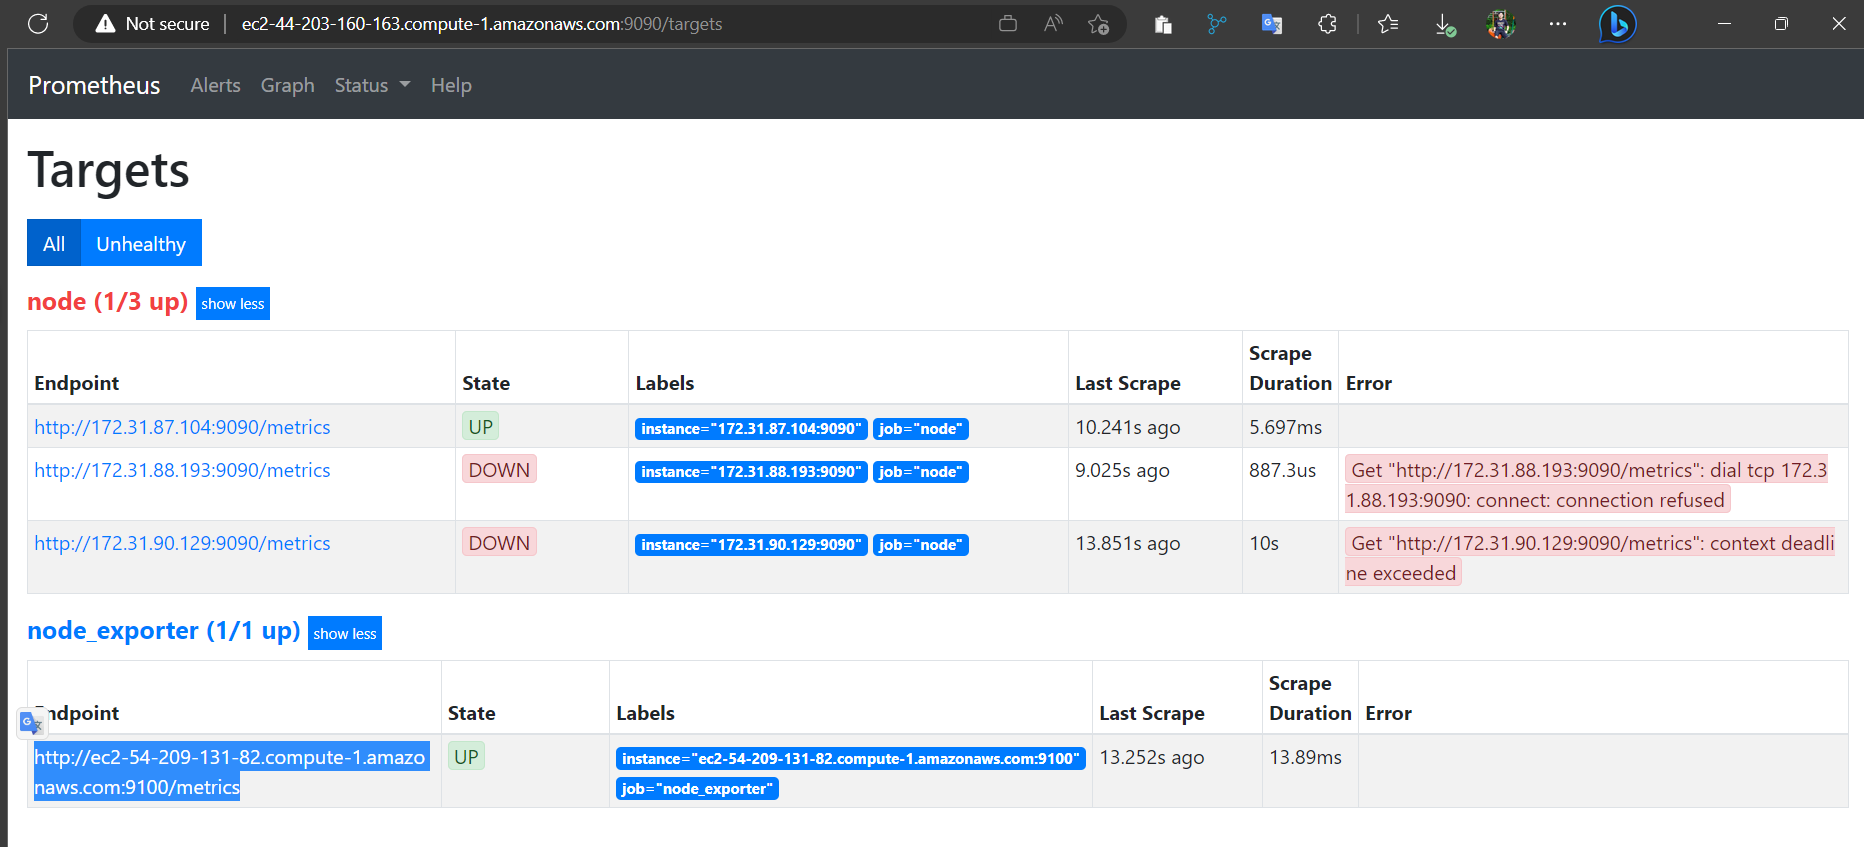
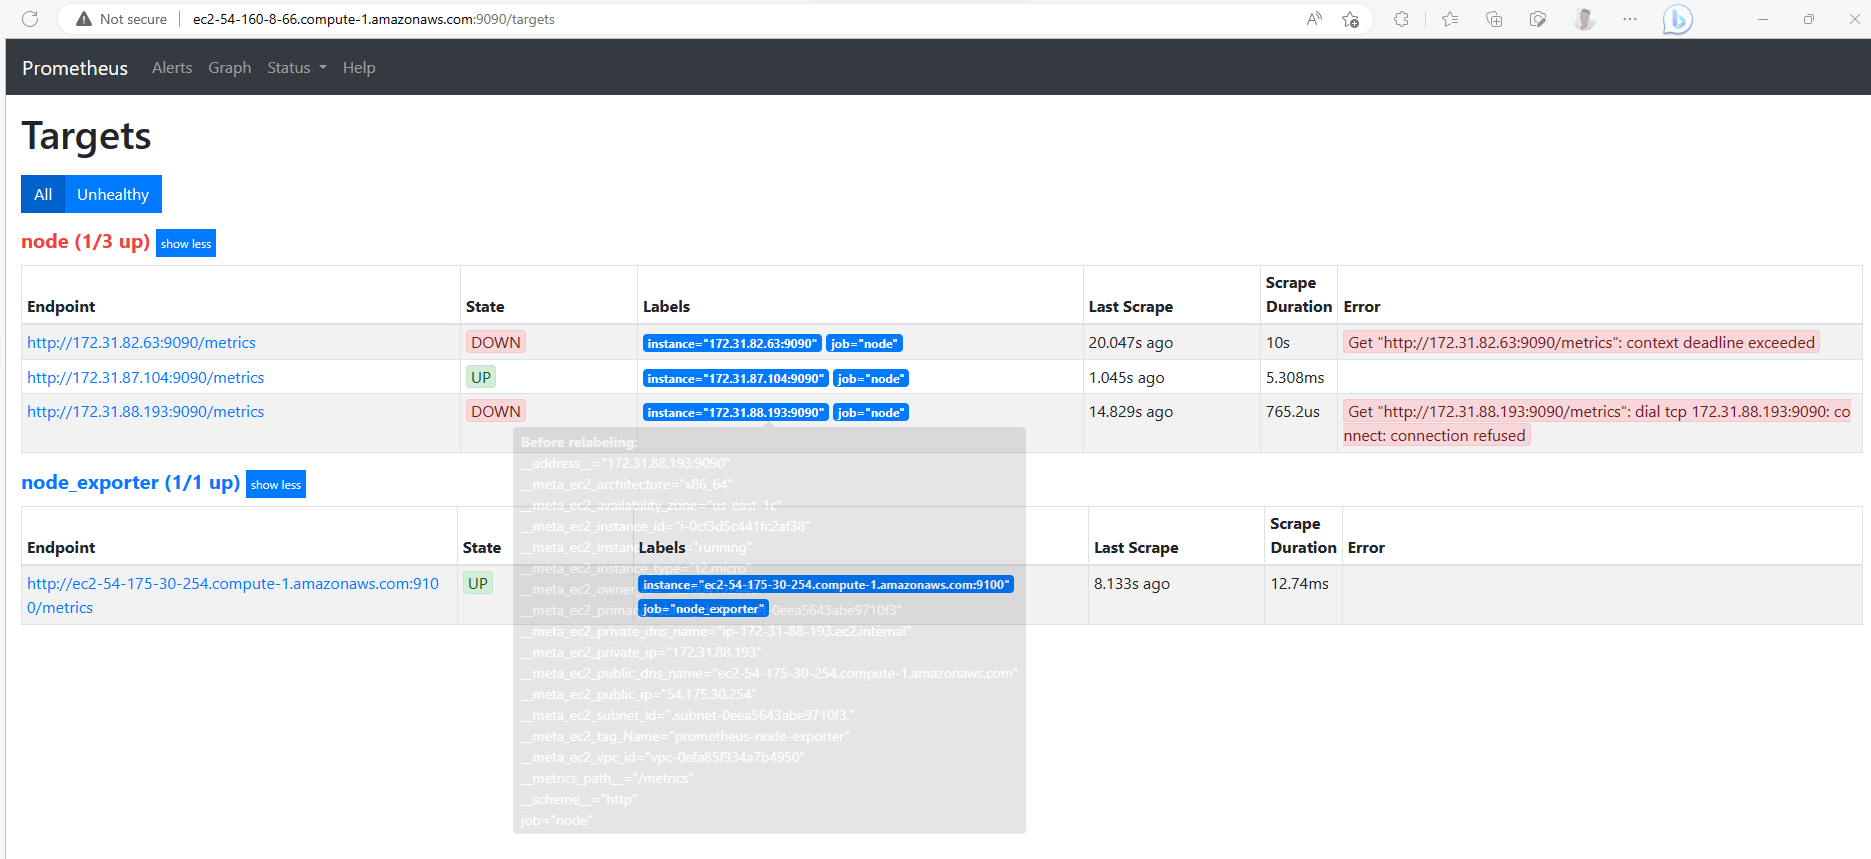
Update README for submit

diff --git a/README.md b/README.md
@@ -1,64 +1,100 @@
-We are archiving this repository because we do not want learners to push personal development to the current repository. If you have any issues or suggestions to make, feel free to:
-- Utilize the https://knowledge.udacity.com/ forum to seek help on content-specific issues.
-- [Submit a support ticket](https://udacity.zendesk.com/hc/en-us/requests/new) along with the link to your forked repository. 
-- If you are an enterprise learner, please [Submit a support ticket here](https://udacityenterprise.zendesk.com/hc/en-us/requests/new?ticket_form_id=360000279131)
+# Section 1: Selling CI/CD to your Team/Organization
 
-## Give your Application Auto-Deploy Superpowers
+CRITERIA
+MEETS SPECIFICATIONS
+Explain the fundamentals and benefits of CI/CD to achieve, build, and deploy automation for cloud-based software products.
 
-In this project, you will prove your mastery of the following learning objectives:
+``` 
+1. CI/CD increases the productivity of Dev and Ops personnel by reducing manual development work. Instead, it enables them to concentrate more on improving the way they produce software.
+Continuous Delivery (CD) automatically sends code changes to environments that are ready for production for approval, while Continuous Deployment (CD) automatically releases code changes to customers. 
+2. Continuous Integration (CI) automatically builds, tests, and integrates code changes within a shared repository.
+3. An automated CI/CD pipeline has many advantages, including ensuring you're building the proper product for your users and speeding up issue fixes, as well as streamlining your entire software development process.
+```
 
-- Explain the fundamentals and benefits of CI/CD to achieve, build, and deploy automation for cloud-based software products.
-- Utilize Deployment Strategies to design and build CI/CD pipelines that support Continuous Delivery processes.
-- Utilize a configuration management tool to accomplish deployment to cloud-based servers.
-- Surface critical server errors for diagnosis using centralized structured logging.
+The CI/CD benefits proposal contains essential benefits of CI/CD, and describes the business context that will benefit from the automation tools. Explanation should include benefits that translate to revenue and cost for the business.
+```
+1. Benefits that translate to revenue and expense for the business should be included in the CI/CD benefits proposal1. Scalability, elasticity, and better performance, attributes of cloud-native applications, are made possible by CI/CD. When done correctly, it enables teams to methodically test each change made to the source code and standardizes deployment methods across all projects.
+2. With the help of automation, CI/CD is a two-step method that significantly accelerates the creation and delivery of software. Continuous Integration (CI) improves developer chores like source code integration and version control so that software may be released into production more quickly. Software testing and deployment are automated via continuous delivery (CD).
+```
 
-![Diagram of CI/CD Pipeline we will be building.](udapeople.png)
+# Section 2: Deploying Working, Trustworthy Software
 
-### Instructions
+CRITERIA
+MEETS SPECIFICATIONS
+## Utilize Deployment Strategies to design and build CI/CD pipelines that support Continuous Delivery processes.
 
-* [Selling CI/CD](instructions/0-selling-cicd.md)
-* [Getting Started](instructions/1-getting-started.md)
-* [Deploying Working, Trustworthy Software](instructions/2-deploying-trustworthy-code.md)
-* [Configuration Management](instructions/3-configuration-management.md)
-* [Turn Errors into Sirens](instructions/4-turn-errors-into-sirens.md)
+A public git repository with your project code. [https://github.com/ducluanxutrieu/cdond-c3-projectstarter]
 
-### Project Submission
+Evidence of code-based CI/CD configuration in the form of yaml files in your git repository.
 
-For your submission, please submit the following:
+Console output of various pre-deploy job failure scenarios:
 
-- A text file named `urls.txt` including:
-  1. Public Url to GitHub repository (not private) [URL01]
-  1. Public URL for your S3 Bucket (aka, your green candidate front-end) [URL02]
-  1. Public URL for your CloudFront distribution (aka, your blue production front-end) [URL03]
-  1. Public URLs to deployed application back-end in EC2 [URL04]
-  1. Public URL to your Prometheus Server [URL05]
-- Your screenshots in JPG or PNG format, named using the screenshot number listed in the instructions. These screenshots should be included in your code repository in the root folder.
-  1. Job failed because of compile errors. [SCREENSHOT01]
-  1. Job failed because of unit tests. [SCREENSHOT02]
-  1. Job that failed because of vulnerable packages. [SCREENSHOT03]
-  1. An alert from one of your failed builds. [SCREENSHOT04]
-  1. Appropriate job failure for infrastructure creation. [SCREENSHOT05]
-  1. Appropriate job failure for the smoke test job. [SCREENSHOT06]
-  1. Successful rollback after a failed smoke test. [SCREENSHOT07]  
-  1. Successful promotion job. [SCREENSHOT08]
-  1. Successful cleanup job. [SCREENSHOT09]
-  1. Only deploy on pushed to `master` branch. [SCREENSHOT10]
-  1. Provide a screenshot of a graph of your EC2 instance including available memory, available disk space, and CPU usage. [SCREENSHOT11]
-  1. Provide a screenshot of an alert that was sent by Prometheus. [SCREENSHOT12]
+Build Jobs that failed because of compile errors. ![Build Jobs that failed because of compile errors.](images/1._failed_because_of_compile_errors.png "")
 
-- Your presentation should be in PDF format named "presentation.pdf" and should be included in your code repository root folder. 
 
-Before you submit your project, please check your work against the project rubric. If you haven’t satisfied each criterion in the rubric, then revise your work so that you have met all the requirements. 
+Failed unit tests. 
+![Failed unit tests front end.](images/2_Failed_unit_tests.png "")
+![Failed unit tests back end.](images/2_Failed_unit_test_backend.png "")
 
-### Built With
+Failure because of vulnerable packages.
+![Failure because of vulnerable packages front end.](images/3_Failure_because_of_vulnerable_packages_frontend.png "")
+![Failure because of vulnerable packages back end](images/3_Failure_because_of_vulnerable_packages_backend.png "")
 
-- [Circle CI](www.circleci.com) - Cloud-based CI/CD service
-- [Amazon AWS](https://aws.amazon.com/) - Cloud services
-- [AWS CLI](https://aws.amazon.com/cli/) - Command-line tool for AWS
-- [CloudFormation](https://aws.amazon.com/cloudformation/) - Infrastrcuture as code
-- [Ansible](https://www.ansible.com/) - Configuration management tool
-- [Prometheus](https://prometheus.io/) - Monitoring tool
+An alert from one of your failed builds. [SCREENSHOT04]
+![alert from one of your failed builds](images/4_Circle_ci_email.png)
+Evidence in your code that:
 
-### License
+Compile errors have been fixed.
+Unit tests have been fixed.
+All critical security vulnerabilities caught by the “Analyze” job have been fixed.
+![All critical security vulnerabilities caught by the “Analyze” job have been fixed.](images/3_Fixed_vulnerable_packages_backend.png)
+![All critical security vulnerabilities caught by the “Analyze” job have been fixed.](images/3_Fixed_vulnerable_packages_frontend.png)
+Utilize a configuration management tool to accomplish deployment to cloud-based servers.
 
-[License](LICENSE.md)
+Console output of appropriate failure for infrastructure creation job (using CloudFormation). [SCREENSHOT05]
+![Console output of appropriate failure for infrastructure creation job](images/5_infrastructure_build_failure.png)
+
+Console output of a smoke test job that is failing appropriately. [SCREENSHOT06]
+![](images/6_failed_smoke_test.png)
+
+Console output of a successful rollback after a failed smoke test. [SCREENSHOT07]
+![](images/7_rollback_successfully.png)
+
+Console output of successful promotion of new version to production in CloudFront. [SCREENSHOT08]
+![](images/8_success_job.png)
+![](images/8_success_cloud_front.png)
+
+Console output of successful cleanup job that removes old S3 bucket and EC2 instance. [SCREENSHOT09]
+![](images/9_successful_cleanup_job.png)
+
+Evidence that deploy jobs only happen on master branch. [SCREENSHOT10]
+![](images/10_whole_process_1.png)
+![](images/10_whole_process_2.png)
+
+Evidence of deployed and functioning front-end application in an S3 bucket [URL02] and in CloudFront. [URL03]
+
+[S3 URL] http://udapeople-5791cb7.s3-website-us-east-1.amazonaws.com/
+
+[CloudFront URL] http://d5rkcmxklo9ld.cloudfront.net
+
+Evidence of healthy back-end application. [URL04]
+[Backend URL] http://44.202.157.195:3030/api/status
+
+Section 3: Turn Errors into Sirens
+
+CRITERIA
+MEETS SPECIFICATIONS
+Surface critical server errors for diagnosis using centralized logging.
+
+Evidence of Prometheus Server. [URL05]
+http://ec2-54-160-8-66.compute-1.amazonaws.com:9090/targets
+
+Evidence that Prometheus is monitoring memory, cpu and disk usage of EC2 instances. [SCREENSHOT11]
+![](images/11_prometheus_targets.png)
+![](images/11_prometheus_graph_cpu.png)
+![](images/11_prometheus_graph_memory.png)
+![](images/11_prometheus_graph_disk.png)
+
+Evidence that Prometheus and AlertManager send alerts when certain conditions exist in the EC2 instance. [SCREENSHOT12]
+![](images/12_alert_prometheus.png)
+![](images/12_alert_manager.png)
